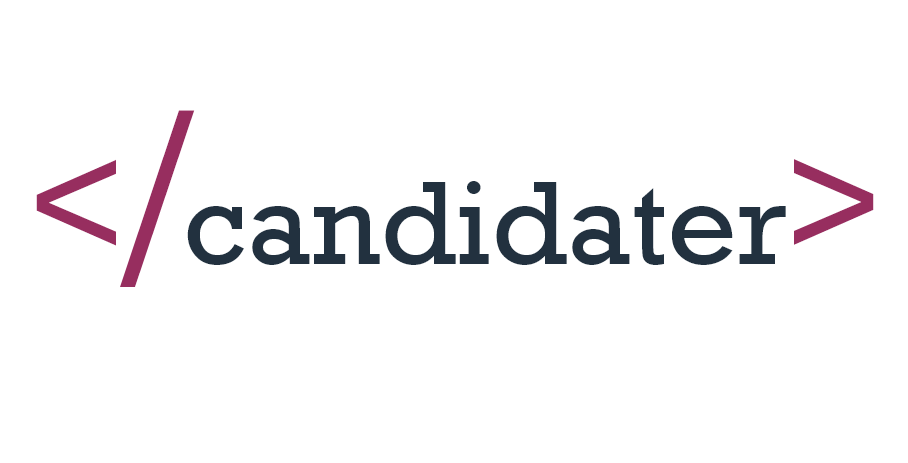
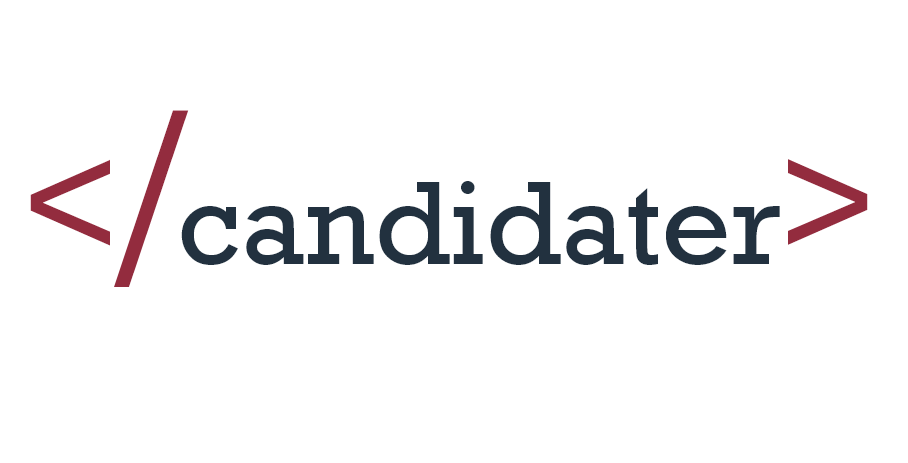
Changempent couleurs

Changed region(s): [[0.0308, 0.2419, 0.9868, 0.635]]

diff --git a/css/style.css b/css/style.css
@@ -15,11 +15,6 @@ body, html
 #hero
 {
 
- /*background-image: url("../images/BG.jpg");
- background-position: center;
- background-repeat: no-repeat;
- background-size: cover;
- position: relative;*/
  background-color: transparent;
  text-align: center;
  height: 100%;
@@ -68,7 +63,17 @@ h3{
   background-color: #22313F;
   color : #F5F5F5;
   border: 5px solid white;
-  border-image: linear-gradient(to bottom, #972E5F, rgba(0, 0, 0, 0)) 1 100%;
+  border-image: linear-gradient(to bottom, #932C3E, rgba(0, 0, 0, 0)) 1 100%;
+}
+.content{
+  background-color: #F5F5F5;
+  color : #22313F;
+}
+.content-rouge{
+  background-color: #932C3E;
+  color : #F5F5F5;
+  border: 5px solid white;
+  border-image: linear-gradient(to bottom,#22313F , rgba(0, 0, 0, 0)) 1 100%;
 }
 .textecontent{
   margin-top: 2%;
@@ -86,20 +91,41 @@ a{
     font-size: 85%;
 }
 .bleu{
-  /*color:#22313F !important;*/
+  color:#22313F !important;
 }
 .underline{
   text-decoration: underline;
-    text-decoration-color: #972E5F;
+    text-decoration-color: #932C3E;
 }
+.underline_red{
+  text-decoration: underline;
+    text-decoration-color: #22313F;
+}
+
 
 input
 {
   font-family: 'Montserrat', sans-serif;
-  color: #972E5F;
+  color: #932C3E;
 }
 
 #login
 {
   display: none;
+}
+
+.connexion{
+  margin-top: 5%;
+  padding: 15px;
+
+  font-family: 'Montserrat', sans-serif;
+  font-size: 85%;
+  text-align: center;
+  background-color: #22313F;
+
+}
+.btn-primary {
+  color: #fff;
+  background-color: #932C3E !important;
+  border-color: #932C3E !important;
 }

diff --git a/js/script_perso.js b/js/script_perso.js
@@ -8,19 +8,3 @@ $(window).on('load', function ()
 {
   AOS.refresh();
 });
-
-
-var i =0;
-$("#but_log").click(function()
-{
-  if (i == 0)
-  {
-    $("#login").show();
-    i = 1;
-  }
-  else if (i == 1)
-  {
-    $("#login").hide();
-    i = 0;
-  }
-});

diff --git a/index.php b/index.php
@@ -30,11 +30,9 @@
 
   </head>
       <body>
-        <div id="login" class="row content-bleu">
-          <?php
-            include "all.php";
-          ?>
-        </div>
+
+
+
         <?php
           include "entete_page.php";
         ?>
@@ -65,9 +63,9 @@
           </div>
         </div>
 
-        <div class="row content-bleu">
+        <div class="row content-rouge">
           <div class="col-md-6 textecontent">
-            <h3 class="underline" data-aos="fade-down">Projets étudiants</h3>
+            <h3 class="underline_red" data-aos="fade-down">Projets étudiants</h3>
             <br/>
             <p data-aos="zoom-in-right">At vero eos et accusamus et iusto odio dignissimos ducimus qui blanditiis praesentium voluptatum deleniti atque corrupti quos dolores et. </br>qui blanditiis praesentium voluptatum deleniti atque corrupti quos dolores et quas molestia </p>
             <br/>
@@ -87,14 +85,11 @@
             <br/>
             <p data-aos="zoom-in-left">At vero eos et accusamus et iusto odio dignissimos ducimus qui blanditiis praesentium voluptatum deleniti atque corrupti quos dolores et. </br>qui blanditiis praesentium voluptatum deleniti atque corrupti quos dolores et quas molestia </p>
             <br/>
-            <p data-aos="fade"><a href="http://informatique-ufrst.u-bourgogne.fr/formations/detail/2" class="bleu underline">Candidater</a></p>
+            <p data-aos="fade"><a href="http://informatique-ufrst.u-bourgogne.fr/formations/detail/2" class=" bleu underline">Candidater</a></p>
           </div>
         </div>
 
-        <div class="row content-bleu">
-          <p data-aos="zoom-in-left">At vero eos et accusamus et iusto odio dignissimos ducimus qui blanditiis praesentium voluptatum deleniti atque corrupti quos dolores et. </br>qui blanditiis praesentium voluptatum deleniti atque corrupti quos dolores et quas molestia </p>
-        </div>
-
+    
 
 
           <script src="js/jquery.js"></script>

diff --git a/connexion.php b/connexion.php
@@ -1,0 +1,45 @@
+<?php
+  session_start();
+
+  include "checkreset.php";
+  include 'connectdb.php' ;
+?>
+
+<!DOCTYPE html>
+<html lang="fr">
+  <head>
+    <meta charset="utf-8">
+    <meta http-equiv="X-UA-Compatible" content="IE=edge">
+    <meta name="viewport" content="width=device-width, initial-scale=1">
+
+    <link href="https://fonts.googleapis.com/css?family=Montserrat:900|Domine:400,700" rel="stylesheet">
+      <!-- Bootstrap -->
+    <link href="css/bootstrap.css" rel="stylesheet">
+			<!-- Font awesome-->
+	  <link href="css/font-awesome.min.css" rel="stylesheet">
+       <!-- animation on slide -->
+    <link href="aos-master/dist/aos.css" rel="stylesheet">
+			<!-- Ma feuille de style perso-->
+	  <link href="css/style.css" rel="stylesheet">
+
+		<script src="https://oss.maxcdn.com/html5shiv/3.7.3/html5shiv.min.js"></script>
+		<script src="https://oss.maxcdn.com/respond/1.4.2/respond.min.js"></script>
+    <script src="aos-master/dist/aos.js"></script>
+	  <!-- Hotjar Tracking Code -->
+
+
+  </head>
+  <body>
+    <div class=" row">
+      <div class="col-md-3">
+      </div>
+        <div class=" connexion col-md-6">
+    <img  src="images/lpmi.png" alt="LPMI" class="img-responsive">
+
+
+<?php
+  include "all.php";
+?>
+</div>
+</div>
+</body>

diff --git a/all.php b/all.php
@@ -54,17 +54,26 @@
     }
 
     echo "
+
+
     <form action='#' method='post'>
-      <div>
-        <div>
-          <p>Login <input type='text' name='login' required/></p>
-        </div>
-        <div>
-          <p>Mot de passe <input type='password' name='password' required/></p>
-        </div>
-        <input type='submit' name='submit' value='connexion'/>
-        <input type='submit' name='submit' value='enregistrement'/>
-      </div>";
+  <div class='form-group row'>
+    <label for='inputlogin' class='col-sm-2 col-form-label'>Login</label>
+    <div class='col-sm-10'>
+      <input type='text' class='form-control' id='inputlogin' placeholder='login' name='login' required>
+    </div>
+  </div>
+  <div class='form-group row'>
+    <label for='inputPassword' class='col-sm-2 col-form-label'>Mot de passe</label>
+    <div class='col-sm-10'>
+      <input type='password' class='form-control' id='inputPassword' placeholder='Mot de passe' name='password' required>
+    </div>
+  </div>
+
+        <input class='btn btn-primary' type='submit' name='submit' value='connexion'/>
+        <input class='btn btn-primary' type='submit' name='submit' value='enregistrement'/>
+      </div>
+    ";
 
       if(isset($_GET["log"]))
       {

diff --git a/presentation.php b/presentation.php
@@ -1,0 +1,37 @@
+<?php
+  session_start();
+
+  include "checkreset.php";
+  include 'connectdb.php' ;
+?>
+
+<!DOCTYPE html>
+<html lang="fr">
+  <head>
+    <meta charset="utf-8">
+    <meta http-equiv="X-UA-Compatible" content="IE=edge">
+    <meta name="viewport" content="width=device-width, initial-scale=1">
+
+    <link href="https://fonts.googleapis.com/css?family=Montserrat:900|Domine:400,700" rel="stylesheet">
+      <!-- Bootstrap -->
+    <link href="css/bootstrap.css" rel="stylesheet">
+			<!-- Font awesome-->
+	  <link href="css/font-awesome.min.css" rel="stylesheet">
+       <!-- animation on slide -->
+    <link href="aos-master/dist/aos.css" rel="stylesheet">
+			<!-- Ma feuille de style perso-->
+	  <link href="css/style.css" rel="stylesheet">
+
+		<script src="https://oss.maxcdn.com/html5shiv/3.7.3/html5shiv.min.js"></script>
+		<script src="https://oss.maxcdn.com/respond/1.4.2/respond.min.js"></script>
+    <script src="aos-master/dist/aos.js"></script>
+	  <!-- Hotjar Tracking Code -->
+
+
+  </head>  <body>
+
+
+
+      <?php
+        include "entete_page.php";
+      ?>

diff --git a/entete_page.php b/entete_page.php
@@ -7,17 +7,17 @@
       <div class="col-md-2 col-sm-hidden col-xs-hidden nav">
         <a href="#real">Présentation </a>
       </div>
-      <div class="col-md-2 col-sm-hidden col-xs-hidden nav">
+      <div class="col-md-3 col-sm-hidden col-xs-hidden nav">
         <a href="ue.php"> Unité d'enseignements</a>
       </div>
       <div class="col-md-1 col-sm-hidden col-xs-hidden nav">
         <a href="#contact">Projets</a>
       </div>
-      <div class="col-md-2 col-sm-hidden col-xs-hidden nav">
+      <div class="col-md-1 col-sm-hidden col-xs-hidden nav">
         <a href="#contact">Candidater</a>
       </div>
       <div class="col-md-2 nav">
-        <input id="but_log" type="button" value="Login / Register"/>
+        <a href="connexion.php">Connexion</a>
       </div>
     </div>
   </div>

diff --git a/connectdb.php b/connectdb.php
@@ -1,7 +1,7 @@
 <?php
   $servername = "localhost";
   $username = "root";
-  $password = "";
+  $password = "root";
   $dbname = "sitelpmi";
 
 
